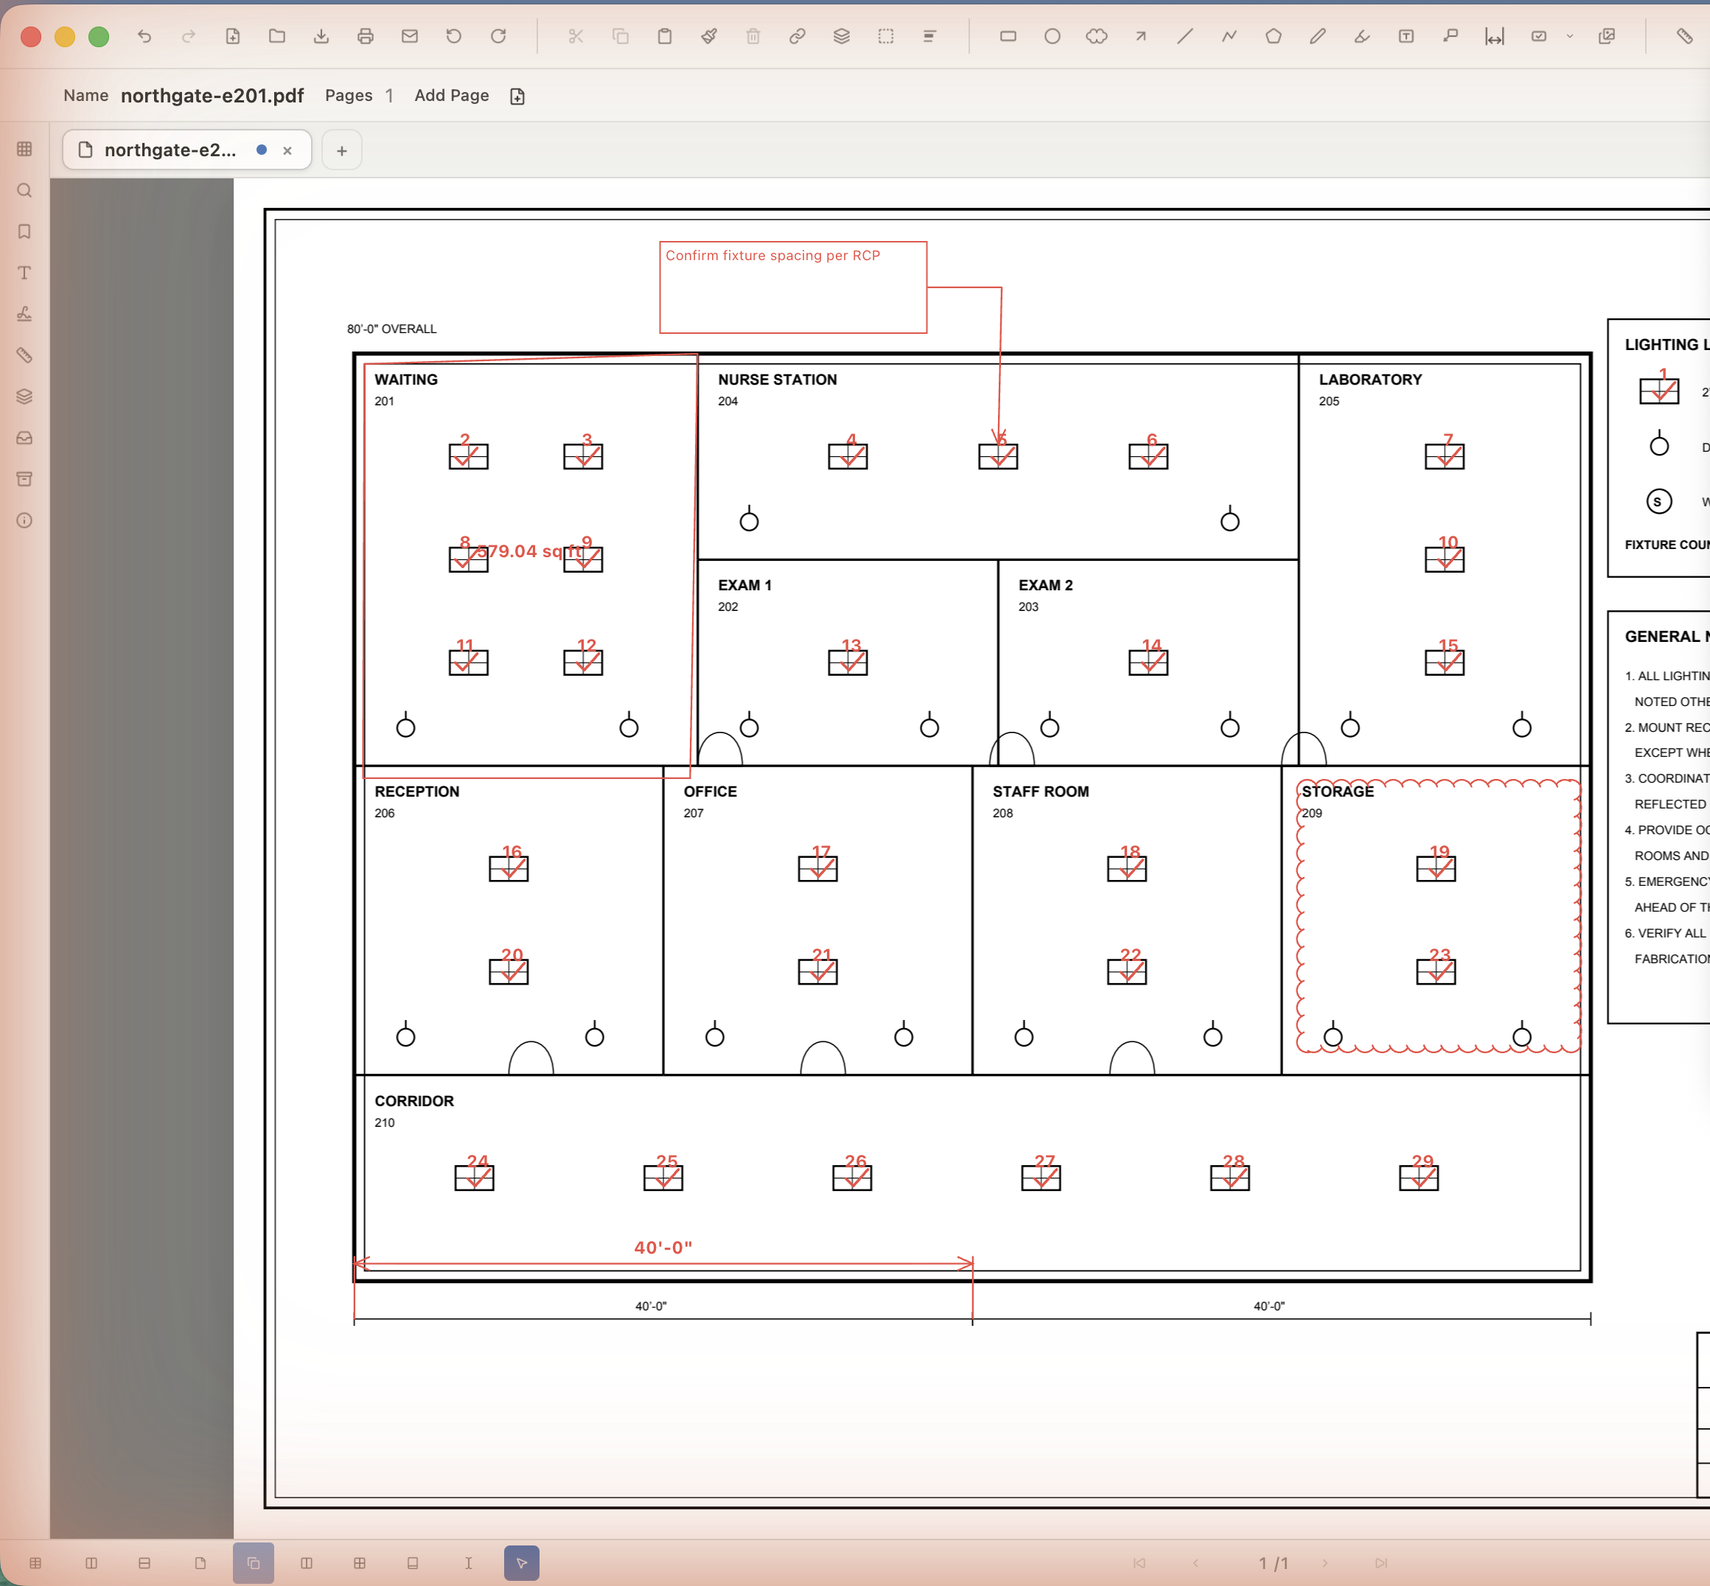
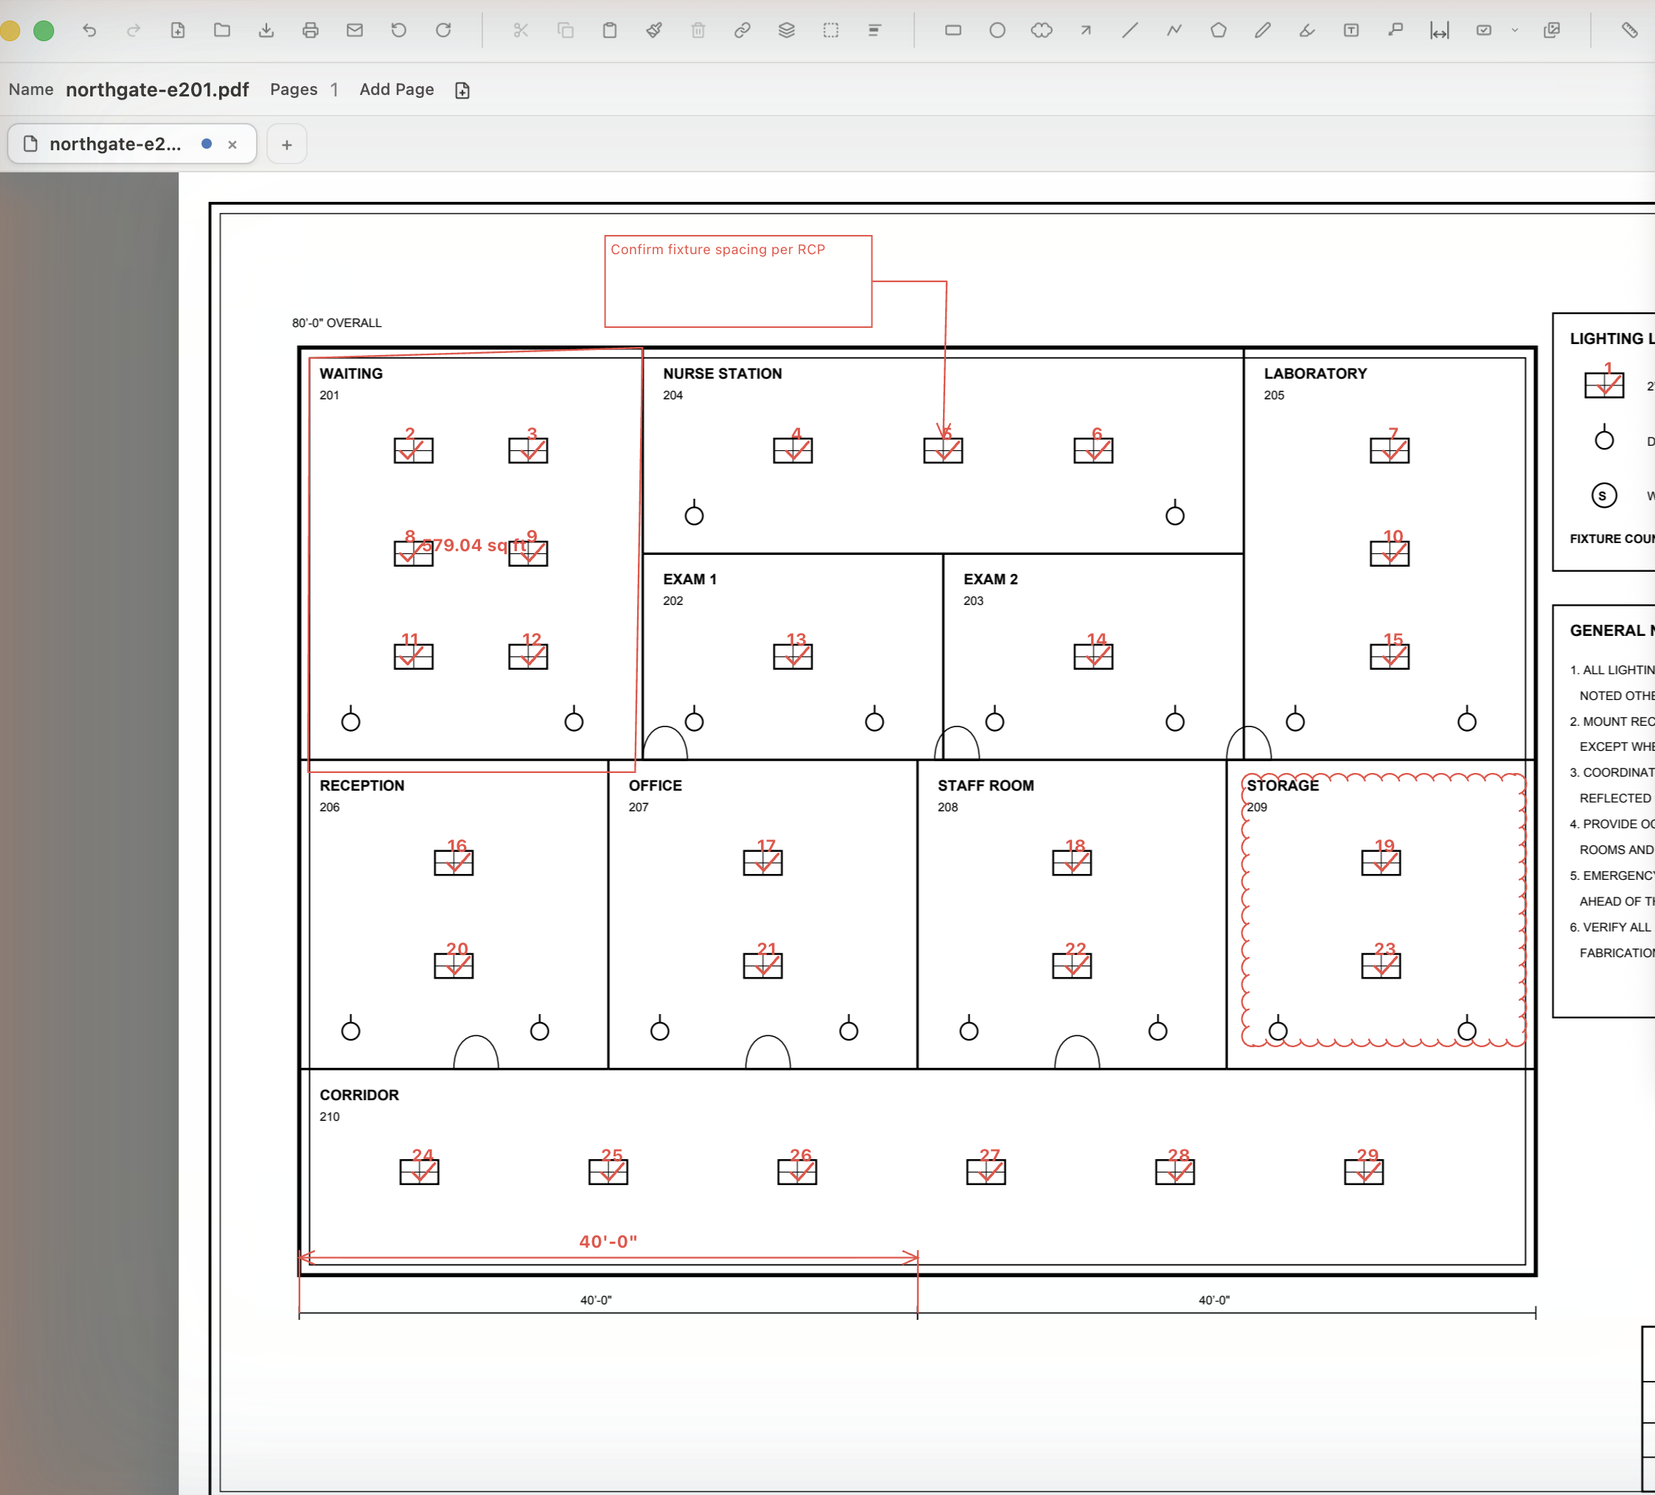
Product-ready screenshots: de-glow, window-crop, staged presentation + motion
The captures carried a warm screen-share glow (worst at the edges),
desktop pixels at the corners, and sliced status-bar icons at the
bottom. Fixed in the assets themselves: per-image window-bounds crop,
local white-balance that removes the spatially-varying cast using the
neutral chrome/paper as reference (real colors — markups, counts,
traffic lights — preserved), and a final trim of the status-bar sliver.
Presentation: the section is now a showcase — lead shot on a full-width
gradient stage, remaining shots in alternating text/image rows with
numbered kickers, framed images with layered shadows, hover lift, and
staggered scroll-reveal motion (reduced-motion respected).

diff --git a/src/components/Home.js b/src/components/Home.js
@@ -294,7 +294,7 @@ const Home = () => {
         </div>
       </section>
 
-      <section className="benefits screenshots">
+      <section className="showcase">
         <div className="container">
           <motion.div
             className="section-header benefits-header"
@@ -305,25 +305,52 @@ const Home = () => {
             <h2>See it on a real sheet</h2>
             <p>A demonstration lighting plan — captured from the shipping app, not mocked up.</p>
           </motion.div>
-          {screenshots.map((shot, index) => (
-            <motion.figure
-              key={shot.title}
-              style={{ margin: '0 0 48px 0' }}
-              initial={{ opacity: 0, y: 24 }}
-              whileInView={{ opacity: 1, y: 0 }}
-              viewport={{ once: true }}
-              transition={{ delay: 0.05 }}
-            >
-              <h3 style={{ marginBottom: 12 }}>{shot.title}</h3>
-              <img
-                src={shot.image}
-                alt={shot.title}
-                loading={index === 0 ? 'eager' : 'lazy'}
-                style={{ width: '100%', height: 'auto', borderRadius: 12, border: '1px solid rgba(0,0,0,0.08)', boxShadow: '0 12px 32px rgba(15,23,42,0.12)' }}
-              />
-              <figcaption style={{ marginTop: 10, fontSize: 15, opacity: 0.75 }}>{shot.caption}</figcaption>
-            </motion.figure>
-          ))}
+
+          {/* Lead shot gets the full-width stage; the rest alternate text/image so the section
+              reads as a story instead of a stack of identical cards. */}
+          <motion.figure
+            className="showcase-hero"
+            initial={{ opacity: 0, y: 36, scale: 0.985 }}
+            whileInView={{ opacity: 1, y: 0, scale: 1 }}
+            viewport={{ once: true, margin: '-80px' }}
+            transition={{ duration: 0.7, ease: [0.21, 0.65, 0.32, 1] }}
+          >
+            <div className="shot-stage stage-accent">
+              <img src={screenshots[0].image} alt={screenshots[0].title} loading="eager" />
+            </div>
+            <figcaption>
+              <h3>{screenshots[0].title}</h3>
+              <p>{screenshots[0].caption}</p>
+            </figcaption>
+          </motion.figure>
+
+          <div className="showcase-rows">
+            {screenshots.slice(1).map((shot, index) => (
+              <motion.figure
+                key={shot.title}
+                className={`showcase-row ${index % 2 === 0 ? '' : 'flip'}`}
+                initial={{ opacity: 0, y: 30 }}
+                whileInView={{ opacity: 1, y: 0 }}
+                viewport={{ once: true, margin: '-60px' }}
+                transition={{ duration: 0.6, ease: [0.21, 0.65, 0.32, 1] }}
+              >
+                <figcaption className="showcase-text">
+                  <span className="showcase-index">0{index + 2}</span>
+                  <h3>{shot.title}</h3>
+                  <p>{shot.caption}</p>
+                </figcaption>
+                <motion.div
+                  className={`shot-stage ${index % 2 === 0 ? 'stage-paper' : 'stage-accent'}`}
+                  initial={{ opacity: 0, x: index % 2 === 0 ? 28 : -28 }}
+                  whileInView={{ opacity: 1, x: 0 }}
+                  viewport={{ once: true, margin: '-60px' }}
+                  transition={{ duration: 0.65, delay: 0.08, ease: [0.21, 0.65, 0.32, 1] }}
+                >
+                  <img src={shot.image} alt={shot.title} loading="lazy" />
+                </motion.div>
+              </motion.figure>
+            ))}
+          </div>
         </div>
       </section>
 

diff --git a/src/App.css b/src/App.css
@@ -1154,3 +1154,149 @@ body {
   color: rgba(255, 255, 255, 0.92);
   border-left-color: rgba(255, 255, 255, 0.7);
 }
+
+/* ------------------------------------------------------------------------- */
+/* Showcase — the real-app screenshots, staged like product shots instead of
+   pasted images: gradient backdrops in the brand palette, a framed window
+   with layered shadow, and a gentle lift on hover. Entry animation comes
+   from framer-motion in Home.js.                                            */
+
+.showcase {
+  padding: 96px 0 40px;
+}
+
+.shot-stage {
+  border-radius: 24px;
+  padding: clamp(18px, 3.4vw, 44px);
+  overflow: hidden;
+  position: relative;
+}
+
+.stage-accent {
+  background:
+    radial-gradient(120% 90% at 12% 0%, rgba(14, 138, 104, 0.14), transparent 55%),
+    linear-gradient(150deg, #eef6f1 0%, #f6f6f2 60%, #f1f2ec 100%);
+}
+
+.stage-paper {
+  background:
+    radial-gradient(110% 80% at 88% 8%, rgba(143, 137, 120, 0.16), transparent 55%),
+    linear-gradient(150deg, #f6f4ee 0%, #f2f1ec 100%);
+}
+
+.shot-stage img {
+  display: block;
+  width: 100%;
+  height: auto;
+  border-radius: 12px;
+  border: 1px solid rgba(23, 21, 16, 0.08);
+  box-shadow:
+    0 1px 2px rgba(23, 21, 16, 0.06),
+    0 12px 28px rgba(23, 21, 16, 0.10),
+    0 32px 64px rgba(23, 21, 16, 0.10);
+  transition: transform 0.45s cubic-bezier(0.21, 0.65, 0.32, 1), box-shadow 0.45s ease;
+}
+
+.shot-stage:hover img {
+  transform: translateY(-4px) scale(1.008);
+  box-shadow:
+    0 2px 4px rgba(23, 21, 16, 0.07),
+    0 18px 38px rgba(23, 21, 16, 0.13),
+    0 44px 80px rgba(23, 21, 16, 0.12);
+}
+
+.showcase-hero {
+  margin: 0 0 72px;
+}
+
+.showcase-hero figcaption {
+  max-width: 62ch;
+  margin: 22px auto 0;
+  text-align: center;
+}
+
+.showcase-hero figcaption h3 {
+  font-size: 1.35rem;
+  margin-bottom: 6px;
+  letter-spacing: -0.01em;
+}
+
+.showcase-hero figcaption p,
+.showcase-text p {
+  color: var(--gray-600);
+  font-size: 0.98rem;
+  line-height: 1.6;
+  text-wrap: pretty;
+}
+
+.showcase-rows {
+  display: flex;
+  flex-direction: column;
+  gap: 72px;
+}
+
+.showcase-row {
+  display: grid;
+  grid-template-columns: minmax(240px, 5fr) 12fr;
+  gap: clamp(24px, 4vw, 56px);
+  align-items: center;
+  margin: 0;
+}
+
+.showcase-row.flip {
+  grid-template-columns: 12fr minmax(240px, 5fr);
+}
+
+.showcase-row.flip .showcase-text {
+  order: 2;
+}
+
+.showcase-row.flip .shot-stage {
+  order: 1;
+}
+
+.showcase-index {
+  display: inline-block;
+  font-family: ui-monospace, SFMono-Regular, Menlo, monospace;
+  font-size: 0.8rem;
+  font-weight: 700;
+  letter-spacing: 0.12em;
+  color: var(--accent);
+  background: var(--accent-soft);
+  border-radius: 6px;
+  padding: 4px 8px;
+  margin-bottom: 12px;
+}
+
+.showcase-text h3 {
+  font-size: 1.3rem;
+  letter-spacing: -0.01em;
+  margin-bottom: 10px;
+  text-wrap: balance;
+}
+
+@media (max-width: 900px) {
+  .showcase-row,
+  .showcase-row.flip {
+    grid-template-columns: 1fr;
+    gap: 18px;
+  }
+  .showcase-row.flip .showcase-text {
+    order: 1;
+  }
+  .showcase-row.flip .shot-stage {
+    order: 2;
+  }
+  .showcase-rows {
+    gap: 56px;
+  }
+}
+
+@media (prefers-reduced-motion: reduce) {
+  .shot-stage img {
+    transition: none;
+  }
+  .shot-stage:hover img {
+    transform: none;
+  }
+}
